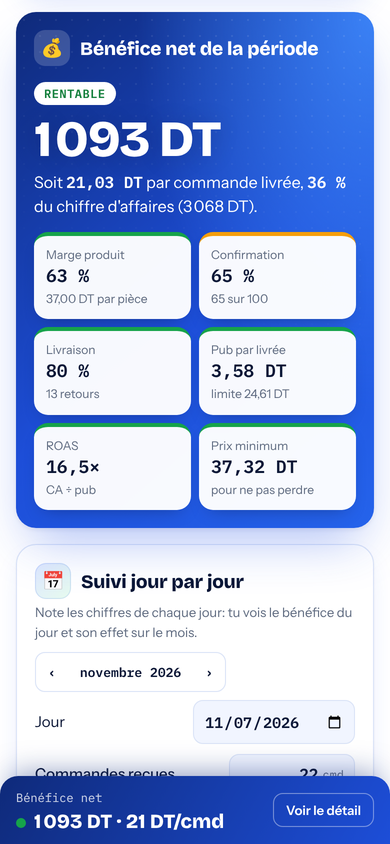
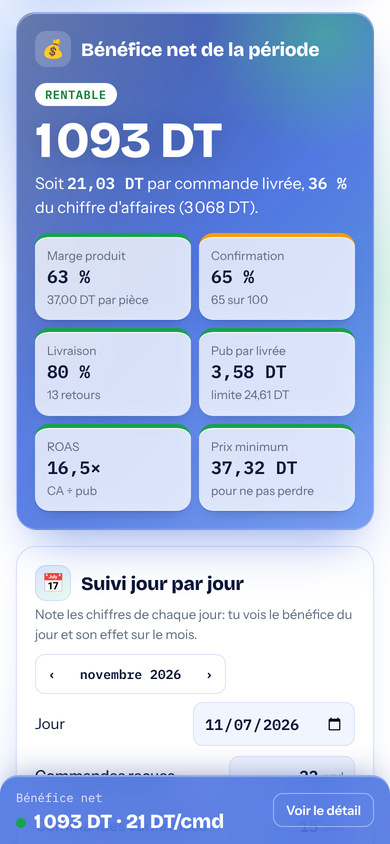
"Ask your AI" in one tap, MCP explained as auto-fetch, glass panels
- New "Demande à ton IA" section: pick a question (ads, delivery fee, price, products,
  confirmation/delivery) or write one; ChatGPT / Claude / Gemini buttons copy the seller's
  real numbers (calculator, day-by-day, other products) and open the app. Nothing to install.
- MCP reduced to a short box: it's for AIs connected to the seller's accounts (Meta Ads,
  Google Sheets, shop), which then fetch the numbers themselves.
- MCP server 1.1.0: tells the AI to fetch numbers from connected tools and shared files first.
- Glass look for the top card, result card, bottom bar and welcome screen.

Claude-Session: https://claude.ai/code/session_01EyzkdUtwXRknfagwKgy7Gj

diff --git a/index.html b/index.html
@@ -275,6 +275,23 @@ a.btn.primary, button.btn.primary { background: linear-gradient(135deg, #4ade80,
 :root[data-theme="light"] { color-scheme: light; }
 #themeBtn { width: 42px; height: 38px; border-radius: 10px; border: 1px solid rgb(255 255 255 / .3); background: rgb(255 255 255 / .08); color: #fff; font-size: 17px; cursor: pointer; display: grid; place-items: center; }
 #themeBtn:hover { background: rgb(255 255 255 / .18); }
+/* ask your AI */
+#mcp .aistep { margin: 16px 0 8px; font: 700 14px var(--body); color: var(--blue); }
+#mcp .qchips { display: grid; gap: 8px; }
+#mcp .qchips button { text-align: start; font: 500 14px/1.35 var(--body); color: var(--ink); background: var(--paper); border: 1px solid var(--line); border-radius: 12px; padding: 10px 12px; cursor: pointer; transition: border-color .15s, transform .15s, background .15s; }
+#mcp .qchips button:hover { border-color: var(--blue); transform: translateY(-1px); }
+#mcp .qchips button.on { border-color: var(--blue); background: color-mix(in srgb, var(--blue) 10%, var(--paper)); box-shadow: 0 0 0 3px rgb(33 82 232 / .12); }
+#mcp textarea { width: 100%; margin-top: 8px; min-height: 52px; resize: vertical; border: 1px solid var(--line); border-radius: 12px; background: var(--soft); color: var(--ink); font: 15px var(--body); padding: 10px 12px; }
+#mcp textarea:focus { outline: none; border-color: var(--blue); box-shadow: 0 0 0 4px rgb(33 82 232 / .15); }
+#mcp .aibtns { display: flex; flex-wrap: wrap; gap: 8px; }
+#mcp .aibtns .btn { min-height: 46px; }
+#mcp .aistate { min-height: 1em; margin: 8px 0 0; font-size: 13px; } #mcp .aistate.ok { color: var(--good); } #mcp .aistate.bad { color: var(--bad); }
+#mcp .aiprev { margin-top: 10px; border: 1px solid var(--line); border-radius: 12px; }
+#mcp .aiprev summary { cursor: pointer; padding: 10px 12px; font-size: 13px; font-weight: 600; color: var(--muted); }
+#mcp .aiprev pre { margin: 0 10px 10px; white-space: pre-wrap; word-break: break-word; max-height: 260px; overflow-y: auto; text-align: start; direction: inherit; }
+#mcp .mcpbox { margin-top: 16px; border-radius: 14px; padding: 14px; border: 1px dashed color-mix(in srgb, var(--blue) 40%, var(--line)); background: color-mix(in srgb, var(--blue) 5%, var(--paper)); }
+#mcp .mcpbox b { font: 800 16px var(--display); }
+#mcp .mcpbox p { margin: 6px 0 0; font-size: 14px; color: var(--muted); }
 /* AI (MCP) guide */
 #mcp .what { display: grid; gap: 10px; grid-template-columns: 1fr; margin: 12px 0 4px; }
 @media (min-width: 640px) { #mcp .what { grid-template-columns: repeat(3, 1fr); } }
@@ -298,6 +315,26 @@ a.btn.primary, button.btn.primary { background: linear-gradient(135deg, #4ade80,
 #mcp .ask li { background: var(--soft); border-radius: 10px; padding: 8px 12px; font-size: 14px; }
 #mcp .help { margin-top: 14px; display: flex; gap: 12px; align-items: center; justify-content: space-between; flex-wrap: wrap; background: var(--chip); border-radius: 14px; padding: 12px 14px; }
 #mcp .help p { margin: 0; font-weight: 600; }
+/* glass panels */
+body::before { content: ""; position: fixed; inset: 0; z-index: -1; pointer-events: none;
+  background: radial-gradient(42vmax 42vmax at 8% 6%, rgb(59 130 246 / .20), transparent 62%), radial-gradient(36vmax 36vmax at 96% 34%, rgb(74 222 128 / .18), transparent 62%),
+              radial-gradient(44vmax 44vmax at 40% 100%, rgb(37 99 235 / .14), transparent 62%); }
+:root { --glass: linear-gradient(135deg, rgb(15 42 122 / .88) 0%, rgb(29 78 216 / .76) 50%, rgb(37 99 235 / .62) 100%); --glass-line: rgb(255 255 255 / .38); }
+header, #verdict { background: var(--glass) !important; -webkit-backdrop-filter: blur(22px) saturate(170%); backdrop-filter: blur(22px) saturate(170%);
+  border: 1px solid var(--glass-line) !important; box-shadow: inset 0 1px 0 rgb(255 255 255 / .45), inset 0 -1px 0 rgb(255 255 255 / .08), 0 24px 50px -18px rgb(29 78 216 / .5) !important; }
+header::after, #verdict::after { background-image: linear-gradient(118deg, rgb(255 255 255 / .30) 0%, rgb(255 255 255 / .06) 32%, transparent 48%) !important; background-size: auto !important;
+  -webkit-mask-image: none !important; mask-image: none !important; }
+#verdict::before { content: ""; position: absolute; width: 260px; height: 260px; right: -80px; top: -110px; border-radius: 50%; background: radial-gradient(circle, rgb(74 222 128 / .45), transparent 65%); z-index: -1; }
+#verdict .kpi, [dir="rtl"] #verdict .kpi { background: rgb(255 255 255 / .82); -webkit-backdrop-filter: blur(10px); backdrop-filter: blur(10px); box-shadow: inset 0 1px 0 rgb(255 255 255 / .9), 0 8px 18px -10px rgb(0 0 0 / .3); }
+#bar { background: rgb(29 78 216 / .70) !important; -webkit-backdrop-filter: blur(18px) saturate(170%); backdrop-filter: blur(18px) saturate(170%); border-top: 1px solid rgb(255 255 255 / .35); box-shadow: inset 0 1px 0 rgb(255 255 255 / .3), 0 -10px 30px -12px rgb(15 42 122 / .45) !important; }
+#gate form { background: rgb(255 255 255 / .84); -webkit-backdrop-filter: blur(22px) saturate(160%); backdrop-filter: blur(22px) saturate(160%); border: 1px solid rgb(255 255 255 / .6); }
+#mcp .help { background: linear-gradient(135deg, rgb(33 82 232 / .10), rgb(74 222 128 / .12)); border: 1px solid rgb(33 82 232 / .18); }
+@media (prefers-color-scheme: dark) { :root:not([data-theme="light"]) { --glass: linear-gradient(135deg, rgb(15 30 80 / .78) 0%, rgb(29 63 160 / .62) 50%, rgb(59 110 230 / .42) 100%); --glass-line: rgb(255 255 255 / .18); }
+  :root:not([data-theme="light"]) #gate form { background: rgb(15 26 51 / .82); border-color: rgb(255 255 255 / .12); }
+  :root:not([data-theme="light"]) body::before { opacity: .7; } }
+:root[data-theme="dark"] { --glass: linear-gradient(135deg, rgb(15 30 80 / .78) 0%, rgb(29 63 160 / .62) 50%, rgb(59 110 230 / .42) 100%); --glass-line: rgb(255 255 255 / .18); }
+:root[data-theme="dark"] #gate form { background: rgb(15 26 51 / .82); border-color: rgb(255 255 255 / .12); }
+:root[data-theme="dark"] body::before { opacity: .7; }
 </style>
 
 <div id="gate" hidden>
@@ -450,33 +487,30 @@ a.btn.primary, button.btn.primary { background: linear-gradient(135deg, #4ade80,
       </section>
 
       <section class="card" id="mcp" aria-labelledby="h-mcp">
-        <h2 id="h-mcp" data-ico="🤖" data-t="mTitle"></h2>
-        <p class="hint" style="margin:6px 0 0;font-size:15px;color:var(--ink)" data-t="mLead"></p>
-        <div class="what">
-          <div><b data-t="mW1t"></b><span data-t="mW1"></span></div>
-          <div><b data-t="mW2t"></b><span data-t="mW2"></span></div>
-          <div><b data-t="mW3t"></b><span data-t="mW3"></span></div>
+        <h2 id="h-mcp" data-ico="🤖" data-t="aiTitle"></h2>
+        <p class="hint" style="margin:6px 0 0;font-size:15px;color:var(--ink)" data-t="aiLead"></p>
+        <p class="aistep" data-t="aiPick"></p>
+        <div class="qchips" id="aiQs" role="group"></div>
+        <textarea id="aiOwn" rows="2" maxlength="500"></textarea>
+        <p class="aistep" data-t="aiSend"></p>
+        <div class="aibtns">
+          <a class="btn primary" id="aiGpt" href="https://chatgpt.com/" target="_blank" rel="noopener">ChatGPT</a>
+          <a class="btn" id="aiClaude" href="https://claude.ai/new" target="_blank" rel="noopener">Claude</a>
+          <a class="btn" id="aiGemini" href="https://gemini.google.com/app" target="_blank" rel="noopener">Gemini</a>
+          <button type="button" class="btn" id="aiCopy" data-t="aiCopy"></button>
         </div>
-        <details id="mcpSteps">
-          <summary data-t="mSteps"></summary>
-          <ol>
-            <li><div><b data-t="mS1"></b><p data-th="mS1p"></p></div></li>
-            <li><div><b data-t="mS2"></b><p data-th="mS2p"></p></div></li>
-            <li><div><b data-t="mS3"></b><p data-t="mS3p"></p><pre id="mcpCfg">{
-  "mcpServers": {
-    "e-calculator": {
-      "command": "npx",
-      "args": ["-y", "github:Chaouch-Haroun/E-Calculator"]
-    }
-  }
-}</pre>
-              <div class="copyrow"><button type="button" class="btn" id="mcpCopyCfg" data-t="mCopyCfg"></button></div><p data-t="mS3n"></p></div></li>
-            <li><div><b data-t="mS4"></b><p data-t="mS4p"></p></div></li>
-            <li><div><b data-t="mS5"></b><p data-t="mS5p"></p>
-              <ul class="ask"><li id="mcpAsk1" data-t="mAsk1"></li><li data-t="mAsk2"></li><li data-t="mAsk3"></li></ul>
-              <div class="copyrow"><button type="button" class="btn" id="mcpCopyAsk" data-t="mCopyAsk"></button></div></div></li>
-          </ol>
-        </details>
+        <p class="aistate" id="aiState" aria-live="polite"></p>
+        <details class="aiprev"><summary data-t="aiPreview"></summary><pre id="aiText"></pre></details>
+        <p class="hint" style="margin:10px 0 0" data-t="aiPrivacy"></p>
+
+        <div class="mcpbox">
+          <b data-t="mcpTitle"></b>
+          <p data-t="mcpText"></p>
+          <div class="copyrow">
+            <button type="button" class="btn" id="mcpCopyMsg" data-t="mcpCopy"></button>
+            <a class="btn" href="https://github.com/Chaouch-Haroun/E-Calculator#-connecter-ton-ia-mcp" target="_blank" rel="noopener" data-t="mcpGuide"></a>
+          </div>
+        </div>
         <div class="help" id="mcpHelp"><p data-t="mHelp"></p><a class="btn primary" id="mcpHelpBtn" href="#" target="_blank" rel="noopener" data-t="mHelpBtn"></a></div>
       </section>
 
@@ -600,19 +634,24 @@ fr: {
   csvSumHead: ["Produit", "Commandes reçues", "Confirmées", "Taux de confirmation", "Livrées", "Taux de livraison", "Retournées", "Chiffre d'affaires (DT)", "Pub (DT)", "Bénéfice avant frais fixes (DT)", "Frais fixes (DT)", "Bénéfice net (DT)"],
   csvSimRows: ["Prix de vente (DT)", "Coût du produit (DT)", "Marge produit", "Bénéfice net de la période (DT)", "Pub max par commande livrée (DT)", "Prix minimum (DT)"],
   copiedOk: "Copié ✓", themeDark: "Passer en mode sombre", themeLight: "Passer en mode clair",
-  mTitle: "Utilise E-Calculator avec ton IA", mLead: "Tu utilises une IA comme Claude sur ton ordinateur? Tu peux lui brancher ce calculateur. Tu lui écris tes chiffres comme à un ami, elle fait le calcul exact et t'explique quoi améliorer.",
-  mW1t: "C'est quoi?", mW1: "Une « prise » (on l'appelle MCP) qui branche ton IA sur la calculatrice de ce site.",
-  mW2t: "Pourquoi?", mW2: "Sans la prise, l'IA devine les chiffres. Avec, elle calcule exactement comme ici.",
-  mW3t: "Il te faut", mW3: "Un ordinateur (Windows ou Mac) et 10 minutes, une seule fois. Pas sur téléphone pour l'instant.",
-  mSteps: "Voir les 5 étapes", mS1: "Installe Node.js", mS1p: 'Va sur <a href="https://nodejs.org" target="_blank" rel="noopener">nodejs.org</a>, télécharge la version <b>LTS</b>, puis clique sur Suivant jusqu\'à la fin.',
-  mS2: "Installe Claude Desktop", mS2p: 'Télécharge-le sur <a href="https://claude.ai/download" target="_blank" rel="noopener">claude.ai/download</a> et connecte-toi.',
-  mS3: "Colle ce texte dans Claude", mS3p: "Dans Claude: Réglages → Développeur → Modifier la configuration. Un fichier s'ouvre: colle ce texte dedans, puis enregistre.",
-  mCopyCfg: "Copier le texte", mS3n: "Si le fichier contient déjà quelque chose, ne l'efface pas: contacte-moi et je t'aide.",
-  mS4: "Redémarre Claude", mS4p: "Ferme Claude complètement et rouvre-le. « e-calculator » apparaît dans ses outils.",
-  mS5: "Pose ta question", mS5p: "Écris tes chiffres normalement, par exemple:",
-  mAsk1: "Je vends une montre 59 DT, elle me coûte 22 DT. Cette semaine: 100 commandes, 65 confirmées, 52 livrées, 60 $ de pub, livraison 7 DT, retour 7 DT. Je gagne combien?",
-  mAsk2: "À partir de quel taux de livraison je perds de l'argent?", mAsk3: "Voici mes chiffres de chaque jour de la semaine: fais-moi le bilan du mois.",
-  mCopyAsk: "Copier l'exemple", mHelp: "Tu bloques ou tu veux savoir ce que l'IA peut faire pour ta boutique? Écris-moi.", mHelpBtn: "Me contacter",
+  aiTitle: "Demande à ton IA", aiLead: "Ton IA (ChatGPT, Claude, Gemini…) reçoit tes vrais chiffres en un geste et répond aux questions qui comptent. Rien à retaper, rien à installer.",
+  aiPick: "1. Choisis une question, ou écris la tienne", aiSend: "2. Touche ton IA: le message est copié, colle-le si besoin",
+  aiQ: ["Ma pub est-elle trop chère? Je coupe, je garde ou j'augmente le budget?", "Mes frais de livraison sont-ils trop hauts pour ma marge? Je devrais les faire payer au client?",
+        "Quel prix je devrais mettre? Et si je monte de 10 DT et que je perds 15 % des commandes?", "Quel produit me fait vraiment gagner de l'argent, et lequel j'arrête?",
+        "Confirmation et livraison: qu'est-ce que je change en premier pour gagner plus?"],
+  aiOwnPh: "Ou écris ta question ici…", aiCopy: "Copier le message", aiPreview: "Voir le message envoyé",
+  aiCopied: "Message copié ✓ Si ton IA ne l'a pas déjà, colle-le (appui long → Coller).", aiCopyFail: "Copie impossible: ouvre « Voir le message » et copie-le à la main.",
+  aiPrivacy: "Tes chiffres ne partent que si tu les colles toi-même dans ton IA.",
+  ai: { intro: "Tu es un conseiller e-commerce pour un vendeur en Tunisie qui vend en paiement à la livraison. Montants en dinars (DT). Voici mes chiffres, tirés de E-Calculator.",
+    rules: "Règles de calcul: coût du produit sur les colis livrés; emballage sur les colis confirmés (envoyés); livraison sur les colis livrés, sauf si le client la paie; frais de retour sur les colis retournés; retenue de 3 % sur le montant encaissé si je n'ai pas de matricule fiscal; pub convertie en DT.",
+    product: "Produit", period: "Période", returns: "retours", result: "Résultat", perDeliv: "par commande livrée", journal: "Suivi jour par jour",
+    journalKey: "reçues / confirmées / livrées / retours", adsShort: "pub", monthTotal: "Total du mois, frais fixes déduits", others: "Mes autres produits",
+    bench: "Repères: marge produit ≥ 55 % bien, < 40 % faible; confirmation ≥ 70 % bien, < 50 % faible; livraison ≥ 80 % bien, < 65 % faible; ROAS ≥ 4 bien, < 2,5 faible.",
+    question: "Ma question", answer: "Réponds simplement en français (ou en darija si je t'écris en darija), avec des chiffres, puis donne-moi 3 actions concrètes pour cette semaine.", yes: "oui", no: "non" },
+  mcpTitle: "⚡ Pour aller plus loin: le MCP", mcpText: "Si ton IA est branchée sur tes comptes (Meta Ads, Google Sheets, ta boutique…), le MCP lui permet d'aller chercher tes chiffres toute seule et de les calculer avec E-Calculator, sans rien copier. Ça s'installe une fois sur ordinateur (Claude Desktop, Cursor, VS Code, Gemini CLI).",
+  mcpCopy: "Copier le message d'installation", mcpGuide: "Guide sur GitHub",
+  mMsg: "Aide-moi à installer le serveur MCP « E-Calculator » sur mon ordinateur: c'est un calculateur de bénéfice e-commerce (paiement à la livraison). Explique-moi étape par étape, simplement. Il a besoin de Node.js 18 ou plus récent. Voici la configuration à ajouter dans mon app:\n\n{\n  \"mcpServers\": {\n    \"e-calculator\": {\n      \"command\": \"npx\",\n      \"args\": [\"-y\", \"github:Chaouch-Haroun/E-Calculator\"]\n    }\n  }\n}",
+mHelp: "Tu bloques ou tu veux savoir ce que l'IA peut faire pour ta boutique? Écris-moi.", mHelpBtn: "Me contacter",
   mHelpMsg: "Salut, j'ai besoin d'aide pour utiliser E-Calculator avec mon IA (MCP).",
   chip1: "✓ Gratuit", chip2: "✓ Marche sans internet", chip3: "✓ Suivi jour par jour",
   gTitle: "Bienvenue sur E-Calculator", gText: "Le calculateur est gratuit. Présente-toi en 10 secondes, puis commence.",
@@ -720,19 +759,24 @@ en: {
   csvSumHead: ["Product", "Orders received", "Confirmed", "Confirmation rate", "Delivered", "Delivery rate", "Returned", "Revenue (TND)", "Ads (TND)", "Profit before fixed costs (TND)", "Fixed costs (TND)", "Net profit (TND)"],
   csvSimRows: ["Selling price (TND)", "Product cost (TND)", "Product margin", "Net profit for the period (TND)", "Max ads per delivered order (TND)", "Minimum price (TND)"],
   copiedOk: "Copied ✓", themeDark: "Switch to dark mode", themeLight: "Switch to light mode",
-  mTitle: "Use E-Calculator with your AI", mLead: "Do you use an AI like Claude on your computer? You can plug this calculator into it. Write your numbers like you would to a friend: it does the exact math and tells you what to improve.",
-  mW1t: "What is it?", mW1: "A \"plug\" (called MCP) that connects your AI to this site's calculator.",
-  mW2t: "Why?", mW2: "Without the plug, the AI guesses the numbers. With it, it calculates exactly like here.",
-  mW3t: "You need", mW3: "A computer (Windows or Mac) and 10 minutes, once. Not on phones for now.",
-  mSteps: "See the 5 steps", mS1: "Install Node.js", mS1p: 'Go to <a href="https://nodejs.org" target="_blank" rel="noopener">nodejs.org</a>, download the <b>LTS</b> version and click Next until the end.',
-  mS2: "Install Claude Desktop", mS2p: 'Download it from <a href="https://claude.ai/download" target="_blank" rel="noopener">claude.ai/download</a> and sign in.',
-  mS3: "Paste this text into Claude", mS3p: "In Claude: Settings → Developer → Edit Config. A file opens: paste this text into it and save.",
-  mCopyCfg: "Copy the text", mS3n: "If the file already has something in it, don't delete it: contact me and I'll help.",
-  mS4: "Restart Claude", mS4p: "Quit Claude completely and open it again. \"e-calculator\" shows up in its tools.",
-  mS5: "Ask your question", mS5p: "Write your numbers normally, for example:",
-  mAsk1: "I sell a watch for 59 TND and it costs me 22 TND. This week: 100 orders, 65 confirmed, 52 delivered, $60 of ads, delivery 7 TND, return 7 TND. How much do I make?",
-  mAsk2: "Below which delivery rate do I lose money?", mAsk3: "Here are my numbers for each day of the week: give me the month's summary.",
-  mCopyAsk: "Copy the example", mHelp: "Stuck, or want to know what AI can do for your shop? Message me.", mHelpBtn: "Contact me",
+  aiTitle: "Ask your AI", aiLead: "Your AI (ChatGPT, Claude, Gemini…) gets your real numbers in one tap and answers the questions that matter. Nothing to retype, nothing to install.",
+  aiPick: "1. Pick a question, or write your own", aiSend: "2. Tap your AI: the message is copied, paste it if needed",
+  aiQ: ["Are my ads too expensive? Should I cut, keep or raise the budget?", "Is my delivery fee too high for my margin? Should the customer pay it?",
+        "What price should I set? And if I add 10 TND and lose 15% of orders?", "Which product really makes me money, and which should I stop?",
+        "Confirmation and delivery: what should I change first to earn more?"],
+  aiOwnPh: "Or write your question here…", aiCopy: "Copy the message", aiPreview: "See the message sent",
+  aiCopied: "Message copied ✓ If your AI doesn't have it yet, paste it (long press → Paste).", aiCopyFail: "Copying isn't possible: open \"See the message\" and copy it by hand.",
+  aiPrivacy: "Your numbers only leave when you paste them into your AI yourself.",
+  ai: { intro: "You are an e-commerce advisor for a seller in Tunisia who sells with cash on delivery. Amounts in Tunisian dinars (TND). Here are my numbers, from E-Calculator.",
+    rules: "Calculation rules: product cost on delivered parcels; packaging on confirmed (shipped) parcels; delivery fee on delivered parcels unless the customer pays it; return fee on returned parcels; 3% withholding on the amount collected if I have no tax ID; ads converted to TND.",
+    product: "Product", period: "Period", returns: "returns", result: "Result", perDeliv: "per delivered order", journal: "Day by day",
+    journalKey: "received / confirmed / delivered / returned", adsShort: "ads", monthTotal: "Month total, after fixed costs", others: "My other products",
+    bench: "Benchmarks: product margin ≥ 55% good, < 40% weak; confirmation ≥ 70% good, < 50% weak; delivery ≥ 80% good, < 65% weak; ROAS ≥ 4 good, < 2.5 weak.",
+    question: "My question", answer: "Answer simply in English, with numbers, then give me 3 concrete actions for this week.", yes: "yes", no: "no" },
+  mcpTitle: "⚡ Going further: MCP", mcpText: "If your AI is connected to your accounts (Meta Ads, Google Sheets, your shop…), MCP lets it fetch your numbers by itself and calculate them with E-Calculator, with nothing to copy. It's installed once on a computer (Claude Desktop, Cursor, VS Code, Gemini CLI).",
+  mcpCopy: "Copy the install message", mcpGuide: "Guide on GitHub",
+  mMsg: "Help me install the \"E-Calculator\" MCP server on my computer: it's an e-commerce profit calculator (cash on delivery). Explain step by step, simply. It needs Node.js 18 or newer. Here is the configuration to add to my app:\n\n{\n  \"mcpServers\": {\n    \"e-calculator\": {\n      \"command\": \"npx\",\n      \"args\": [\"-y\", \"github:Chaouch-Haroun/E-Calculator\"]\n    }\n  }\n}",
+mHelp: "Stuck, or want to know what AI can do for your shop? Message me.", mHelpBtn: "Contact me",
   mHelpMsg: "Hi, I need help using E-Calculator with my AI (MCP).",
   chip1: "✓ Free", chip2: "✓ Works offline", chip3: "✓ Day-by-day tracking",
   gTitle: "Welcome to E-Calculator", gText: "The calculator is free. Introduce yourself in 10 seconds, then start.",
@@ -840,19 +884,24 @@ ar: {
   csvSumHead: ["المنتج", "الطلبيات المستلمة", "المؤكّدة", "نسبة التأكيد", "المُسلَّمة", "نسبة التسليم", "المرتجعة", "رقم المعاملات (د.ت)", "الإشهار (د.ت)", "الربح قبل المصاريف الثابتة (د.ت)", "المصاريف الثابتة (د.ت)", "الربح الصافي (د.ت)"],
   csvSimRows: ["سعر البيع (د.ت)", "تكلفة المنتج (د.ت)", "هامش المنتج", "الربح الصافي للفترة (د.ت)", "أقصى إشهار لكل طلبية مُسلَّمة (د.ت)", "أدنى سعر (د.ت)"],
   copiedOk: "تم النسخ ✓", themeDark: "الوضع الداكن", themeLight: "الوضع الفاتح",
-  mTitle: "استعمل E-Calculator مع الذكاء الاصطناعي", mLead: "تستعمل ذكاءً اصطناعياً مثل Claude على حاسوبك؟ يمكنك ربطه بهذه الحاسبة. اكتب له أرقامك كأنك تكلم صديقاً، فيحسب بدقة ويشرح لك ما يجب تحسينه.",
-  mW1t: "ما هذا؟", mW1: "«قابس» (اسمه MCP) يربط الذكاء الاصطناعي بحاسبة هذا الموقع.",
-  mW2t: "لماذا؟", mW2: "بدون القابس، الذكاء الاصطناعي يخمّن الأرقام. معه، يحسب تماماً مثل هنا.",
-  mW3t: "تحتاج إلى", mW3: "حاسوب (Windows أو Mac) و10 دقائق، مرة واحدة. ليس على الهاتف حالياً.",
-  mSteps: "شاهد الخطوات الخمس", mS1: "ثبّت Node.js", mS1p: 'ادخل إلى <a href="https://nodejs.org" target="_blank" rel="noopener">nodejs.org</a>، حمّل نسخة <b>LTS</b>، ثم اضغط «التالي» حتى النهاية.',
-  mS2: "ثبّت Claude Desktop", mS2p: 'حمّله من <a href="https://claude.ai/download" target="_blank" rel="noopener">claude.ai/download</a> وسجّل الدخول.',
-  mS3: "الصق هذا النص في Claude", mS3p: "في Claude: الإعدادات ← المطوّر ← تعديل الإعدادات. يُفتح ملف: الصق فيه هذا النص ثم احفظ.",
-  mCopyCfg: "نسخ النص", mS3n: "إذا كان الملف يحتوي على شيء من قبل، لا تحذفه: تواصل معي وسأساعدك.",
-  mS4: "أعد تشغيل Claude", mS4p: "أغلق Claude تماماً ثم افتحه من جديد. يظهر «e-calculator» في أدواته.",
-  mS5: "اطرح سؤالك", mS5p: "اكتب أرقامك بشكل عادي، مثلاً:",
-  mAsk1: "أبيع ساعة بـ 59 د.ت وتكلّفني 22 د.ت. هذا الأسبوع: 100 طلبية، 65 مؤكّدة، 52 مُسلَّمة، 60$ إشهار، التوصيل 7 د.ت، الإرجاع 7 د.ت. كم أربح؟",
-  mAsk2: "تحت أي نسبة تسليم أبدأ في الخسارة؟", mAsk3: "هذه أرقامي لكل يوم من الأسبوع: أعطني حصيلة الشهر.",
-  mCopyAsk: "نسخ المثال", mHelp: "واجهتك مشكلة أو تريد أن تعرف ماذا يمكن أن يفعل الذكاء الاصطناعي لمتجرك؟ راسلني.", mHelpBtn: "تواصل معي",
+  aiTitle: "اسأل الذكاء الاصطناعي", aiLead: "يحصل الذكاء الاصطناعي (ChatGPT، Claude، Gemini…) على أرقامك الحقيقية بلمسة واحدة ويجيب عن الأسئلة المهمة. لا إعادة كتابة ولا تثبيت.",
+  aiPick: "1. اختر سؤالاً أو اكتب سؤالك", aiSend: "2. اضغط على تطبيقك: تُنسخ الرسالة، الصقها إذا لزم الأمر",
+  aiQ: ["هل إشهاري غالٍ؟ أوقف، أواصل، أم أزيد الميزانية؟", "هل مصاريف التوصيل مرتفعة مقارنة بهامشي؟ هل أجعل الحريف يدفعها؟",
+        "أي سعر أضع؟ وإذا زدت 10 د.ت وخسرت 15% من الطلبيات؟", "أي منتج يربحني فعلاً، وأيّها أوقف؟",
+        "التأكيد والتسليم: ماذا أغيّر أولاً لأربح أكثر؟"],
+  aiOwnPh: "أو اكتب سؤالك هنا…", aiCopy: "نسخ الرسالة", aiPreview: "شاهد الرسالة المرسلة",
+  aiCopied: "تم نسخ الرسالة ✓ إذا لم تظهر في التطبيق، الصقها (ضغطة طويلة ← لصق).", aiCopyFail: "النسخ غير ممكن: افتح «شاهد الرسالة» وانسخها يدوياً.",
+  aiPrivacy: "أرقامك لا تُرسل إلا إذا لصقتها بنفسك في تطبيق الذكاء الاصطناعي.",
+  ai: { intro: "أنت مستشار تجارة إلكترونية لبائع في تونس يبيع بالدفع عند الاستلام. المبالغ بالدينار التونسي (د.ت). هذه أرقامي من E-Calculator.",
+    rules: "قواعد الحساب: تكلفة المنتج على الطرود المُسلَّمة؛ التغليف على الطرود المؤكّدة (المرسلة)؛ التوصيل على الطرود المُسلَّمة إلا إذا دفعه الحريف؛ مصاريف الإرجاع على الطرود المرتجعة؛ خصم 3% من المبلغ المحصَّل إذا لم يكن لدي معرّف جبائي؛ الإشهار محوّل إلى الدينار.",
+    product: "المنتج", period: "الفترة", returns: "مرتجعات", result: "النتيجة", perDeliv: "لكل طلبية مُسلَّمة", journal: "المتابعة اليومية",
+    journalKey: "مستلمة / مؤكّدة / مُسلَّمة / مرتجعة", adsShort: "إشهار", monthTotal: "مجموع الشهر بعد المصاريف الثابتة", others: "منتجاتي الأخرى",
+    bench: "مؤشرات: هامش المنتج ≥ 55% جيد، < 40% ضعيف؛ التأكيد ≥ 70% جيد، < 50% ضعيف؛ التسليم ≥ 80% جيد، < 65% ضعيف؛ ROAS ≥ 4 جيد، < 2.5 ضعيف.",
+    question: "سؤالي", answer: "أجب ببساطة بالعربية (أو بالدارجة إذا كتبت لك بالدارجة)، بالأرقام، ثم أعطني 3 إجراءات عملية لهذا الأسبوع.", yes: "نعم", no: "لا" },
+  mcpTitle: "⚡ للمزيد: الـ MCP", mcpText: "إذا كان الذكاء الاصطناعي مربوطاً بحساباتك (Meta Ads، Google Sheets، متجرك…)، يسمح له الـ MCP بجلب أرقامك بنفسه وحسابها مع E-Calculator دون نسخ أي شيء. يُثبّت مرة واحدة على الحاسوب (Claude Desktop، Cursor، VS Code، Gemini CLI).",
+  mcpCopy: "نسخ رسالة التثبيت", mcpGuide: "الدليل على GitHub",
+  mMsg: "ساعدني على تثبيت خادم MCP «E-Calculator» على حاسوبي: هو حاسبة أرباح للتجارة الإلكترونية (الدفع عند الاستلام). اشرح لي خطوة بخطوة وببساطة. يحتاج إلى Node.js 18 أو أحدث. هذه الإعدادات التي يجب إضافتها في تطبيقي:\n\n{\n  \"mcpServers\": {\n    \"e-calculator\": {\n      \"command\": \"npx\",\n      \"args\": [\"-y\", \"github:Chaouch-Haroun/E-Calculator\"]\n    }\n  }\n}",
+mHelp: "واجهتك مشكلة أو تريد أن تعرف ماذا يمكن أن يفعل الذكاء الاصطناعي لمتجرك؟ راسلني.", mHelpBtn: "تواصل معي",
   mHelpMsg: "سلام، أحتاج مساعدة لاستعمال E-Calculator مع الذكاء الاصطناعي (MCP).",
   chip1: "✓ مجاني", chip2: "✓ يعمل بدون إنترنت", chip3: "✓ متابعة يومية",
   gTitle: "مرحباً بك في E-Calculator", gText: "الحاسبة مجانية. عرّف بنفسك في 10 ثوانٍ ثم ابدأ.",
@@ -1118,6 +1167,7 @@ function render() {
   if (lastGrade !== undefined && lastGrade !== gg && gg === "good") celebrate();
   lastGrade = gg;
   renderJournal();
+  if ($("aiQs")) updateAi();
 }
 let lastGrade;
 const calm = () => matchMedia("(prefers-reduced-motion: reduce)").matches;
@@ -1511,8 +1561,49 @@ async function copyBtn(btn, text, key) {
   try { await navigator.clipboard.writeText(text); btn.textContent = t("copiedOk"); } catch (e) { btn.textContent = t("copyFail"); }
   setTimeout(() => (btn.textContent = t(key)), 2000);
 }
-$("mcpCopyCfg").onclick = () => copyBtn($("mcpCopyCfg"), $("mcpCfg").textContent, "mCopyCfg");
-$("mcpCopyAsk").onclick = () => copyBtn($("mcpCopyAsk"), t("mAsk1"), "mCopyAsk");
+let aiQ = 0;
+function aiPrompt() {
+  const L = t("ai"), r = compute(S), ym = jDay.slice(0, 7), mo = monthOf(S, ym), out = [];
+  const q = $("aiOwn").value.trim() || t("aiQ")[aiQ];
+  const adsTxt = (v, dtv) => (S.cur === "usd" ? `${nf(0).format(v)} $ (${dt(dtv, 0)})` : dt(dtv, 0));
+  out.push(L.intro, "", L.rules, "", `${L.product}: ${P[PID].name}`,
+    `- ${t("price")}: ${dt(S.price)} · ${t("cost")}: ${dt(S.cost)} · ${t("pack")}: ${dt(S.pack)}`,
+    `- ${t("ship")}: ${dt(S.ship)}${S.clientPays ? ` (${t("clientPays")})` : ""} · ${t("ret")}: ${dt(S.ret)}`,
+    `- ${t("wht")}: ${S.wht ? L.yes : L.no} · ${t("fixed")}: ${dt(S.fixed)}`);
+  if (!isEmpty()) out.push("", `${L.period}:`,
+    `- ${t("leads")}: ${num(r.leads)} · ${t("confN")}: ${num(r.confirmed)} (${pc(r.confRate)}) · ${t("delivN")}: ${num(r.delivered)} (${pc(r.delivRate)}) · ${L.returns}: ${num(r.returned)}`,
+    `- ${t("ads")}: ${adsTxt(S.ads, r.ads)}`,
+    `- ${L.result}: ${dt(r.profit, 0)} · ${dt(r.per(r.profit))} ${L.perDeliv} · ${t("kMargin")} ${pc(r.grossPct)} · ${t("lim")[0]} ${dt(Math.max(0, r.maxCpa))} · ${t("kMin")} ${dt(r.minPrice)} · ROAS ${isFinite(r.roas) ? nf(1).format(r.roas) + "×" : "-"}`);
+  if (mo.any) {
+    out.push("", `${L.journal}, ${monthName(ym)} (${L.journalKey}):`);
+    for (const d of mo.days) if (d.e) out.push(`- ${d.key}: ${d.e.leads} / ${d.e.conf} / ${d.e.deliv} / ${d.e.ret} · ${L.adsShort} ${adsTxt(d.e.ads, d.m.ads)} → ${dt(d.m.profit, 0)}`);
+    out.push(`- ${L.monthTotal}: ${dt(mo.net, 0)}${mo.proj != null ? ` · ${t("jProj")}: ${dt(mo.proj, 0)}` : ""}`);
+  }
+  const others = Object.values(P).filter((x) => x.id !== PID).map((x) => [x, migrate(x.data)]).filter(([, s]) => s.price > 0);
+  if (others.length) { out.push("", `${L.others}:`); for (const [x, s] of others) { const rr = compute(s); out.push(`- ${x.name}: ${t("price")} ${dt(s.price)}, ${t("cost")} ${dt(s.cost)}, ${t("kMargin")} ${pc(rr.grossPct)}, ${L.result} ${dt(rr.profit, 0)}`); } }
+  out.push("", L.bench, "", `${L.question}: ${q}`, "", L.answer);
+  return out.join("\n");
+}
+function updateAi() {
+  if (!$("aiQs").children.length || $("aiQs").dataset.lang !== LANG) {
+    $("aiQs").dataset.lang = LANG;
+    $("aiQs").replaceChildren(...t("aiQ").map((txt, i) => { const b = document.createElement("button"); b.type = "button"; b.textContent = txt; b.onclick = () => { aiQ = i; $("aiOwn").value = ""; updateAi(); }; return b; }));
+  }
+  [...$("aiQs").children].forEach((b, i) => b.classList.toggle("on", i === aiQ && !$("aiOwn").value.trim()));
+  $("aiOwn").placeholder = t("aiOwnPh");
+  const text = aiPrompt(), enc = encodeURIComponent(text), short = enc.length < 7000;   // long messages are pasted instead of passed in the link
+  $("aiText").textContent = text;
+  $("aiGpt").href = short ? `https://chatgpt.com/?q=${enc}` : "https://chatgpt.com/";
+  $("aiClaude").href = short ? `https://claude.ai/new?q=${enc}` : "https://claude.ai/new";
+}
+async function aiCopy() {
+  try { await navigator.clipboard.writeText(aiPrompt()); $("aiState").textContent = t("aiCopied"); $("aiState").className = "aistate ok"; }
+  catch (e) { $("aiState").textContent = t("aiCopyFail"); $("aiState").className = "aistate bad"; }
+}
+$("aiOwn").addEventListener("input", updateAi);
+["aiGpt", "aiClaude", "aiGemini"].forEach((id) => $(id).addEventListener("click", aiCopy));   // copy, then the link opens the app
+$("aiCopy").onclick = aiCopy;
+$("mcpCopyMsg").onclick = () => copyBtn($("mcpCopyMsg"), t("mMsg"), "mcpCopy");
 function updateMcpHelp() {   // the help button uses the WhatsApp number or Instagram link from CONFIG
   const wa = CONFIG.whatsapp ? `https://wa.me/${CONFIG.whatsapp}?text=${encodeURIComponent(t("mHelpMsg"))}` : "", link = wa || CONFIG.instagram;
   $("mcpHelp").hidden = !link; if (link) $("mcpHelpBtn").href = link;
@@ -1525,7 +1616,8 @@ function applyLang() {
   ["app", "bar", "gate"].forEach((id) => { $(id).setAttribute("dir", rtl ? "rtl" : "ltr"); $(id).setAttribute("lang", LANG); });
   document.querySelectorAll("[data-t]").forEach((e) => { const v = t(e.dataset.t); if (typeof v === "string") e.textContent = v; });
   document.querySelectorAll("[data-th]").forEach((e) => { e.innerHTML = t(e.dataset.th); });   // our own texts with links
-  applyTheme(); updateMcpHelp();
+  $("aiState").textContent = "";
+  applyTheme(); updateMcpHelp(); updateAi();
   $("who").placeholder = t("cPh");
   document.querySelectorAll("[data-lang]").forEach((b) => b.classList.toggle("on", b.dataset.lang === LANG));
   if ($("dataDir").dataset.dir) $("dataDir").textContent = t("pDir")($("dataDir").dataset.dir);

diff --git a/README.md b/README.md
@@ -35,7 +35,8 @@ Le calculateur gratuit pour les vendeurs en ligne en Tunisie qui travaillent en 
 | 📊 **Graphiques** | Où part ton argent, tes commandes étape par étape, et « et si ça change? » (livraison, confirmation, pub, prix). |
 | 📄 **Rapport** | Un fichier CSV pour Excel, ou un copier-coller direct dans Google Sheets. |
 | 📦 **Plusieurs produits** | Un calcul et un suivi séparés pour chaque produit, plus le total de tous tes produits. |
-| 🌍 **3 langues** | Français, anglais et arabe (de droite à gauche). |
+| 🤖 **Demande à ton IA** | Un geste: ton IA (ChatGPT, Claude, Gemini) reçoit tes chiffres et répond à tes questions sur la pub, la livraison, le prix. |
+| 🌍 **3 langues** | Français, anglais et arabe (de droite à gauche), mode clair ou sombre. |
 
 ---
 
@@ -161,7 +162,9 @@ Touche <b>Copier pour Google Sheets</b>, ouvre une feuille vide et colle (Ctrl+V
 
 ## 🤖 Connecter ton IA (MCP)
 
-Tu utilises Claude, Cursor ou une autre app compatible **MCP**? Branche E-Calculator dessus: ton IA fait le même calcul que le site, avec tes chiffres, et t'explique le résultat.
+Le plus simple, sans rien installer: sur le site, section **Demande à ton IA**, choisis une question et touche ChatGPT, Claude ou Gemini. Ton IA reçoit tes chiffres et répond.
+
+**Le MCP va plus loin.** Si ton IA est connectée à tes comptes (Meta Ads, Google Sheets, ta boutique, les relevés de ta société de livraison…), elle va chercher tes chiffres **toute seule** et les calcule avec E-Calculator: tu n'as plus rien à copier ni à taper. Ça s'installe une fois, sur ordinateur.
 
 **Il faut:** [Node.js](https://nodejs.org) 18 ou plus récent installé sur ton ordinateur.
 
@@ -180,8 +183,10 @@ Tu utilises Claude, Cursor ou une autre app compatible **MCP**? Branche E-Calcul
 
 Redémarre Claude Desktop. Les autres apps MCP (Cursor, VS Code, …) utilisent la même commande: `npx -y github:Chaouch-Haroun/E-Calculator`.
 
-Ensuite, demande simplement:
-> *Je vends une montre 59 DT, elle me coûte 22 DT. Cette semaine: 100 commandes, 65 confirmées, 52 livrées, 60 $ de pub, livraison 7 DT, retour 7 DT. Je gagne combien?*
+Ensuite, pose les questions qui comptent. Ton IA récupère les chiffres dans tes comptes connectés ou tes fichiers:
+> *Regarde ma pub Meta de la semaine: mon coût par commande livrée est trop haut? Je coupe, je garde ou j'augmente?*<br>
+> *Mes frais de livraison sont trop hauts pour ma marge? Je devrais les faire payer au client?*<br>
+> *Si je monte mon prix de 10 DT et que je perds 15 % des commandes, je gagne plus ou moins?*
 
 | Outil | Ce qu'il fait |
 |---|---|
